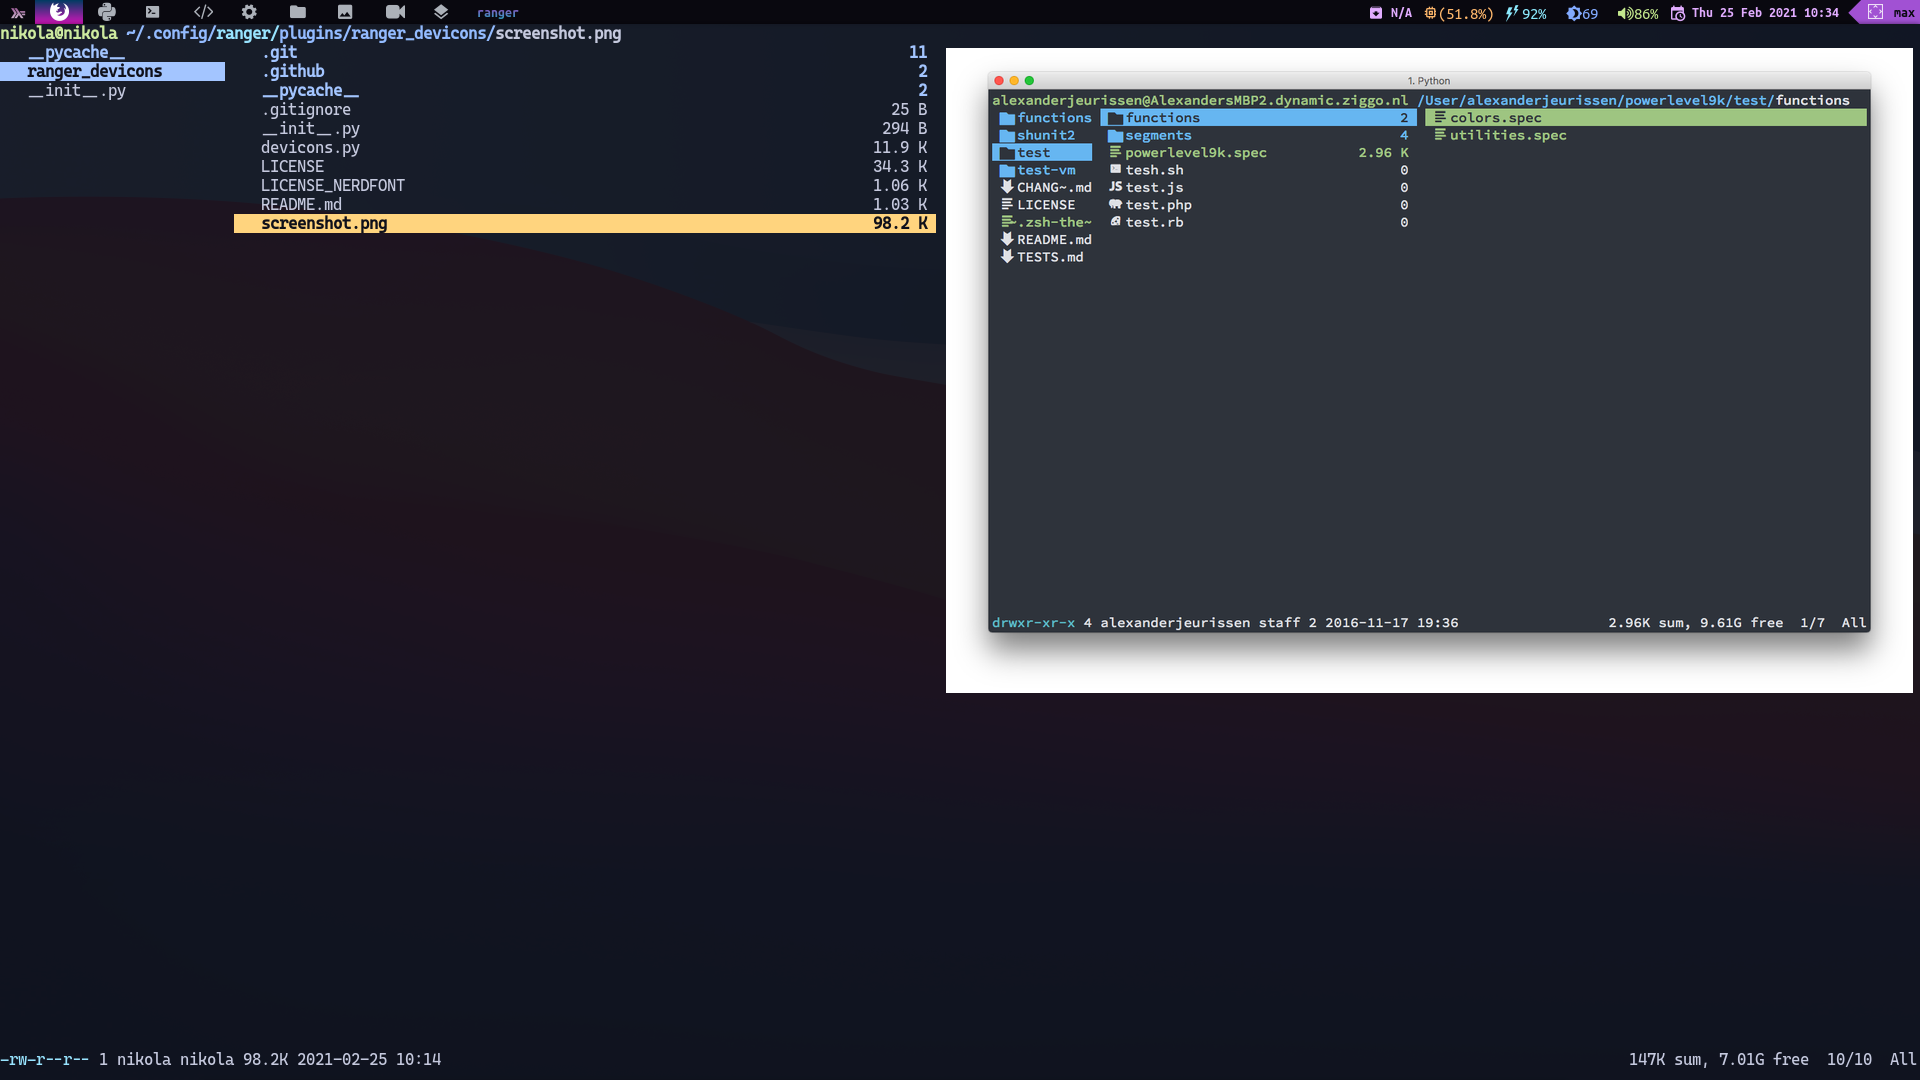
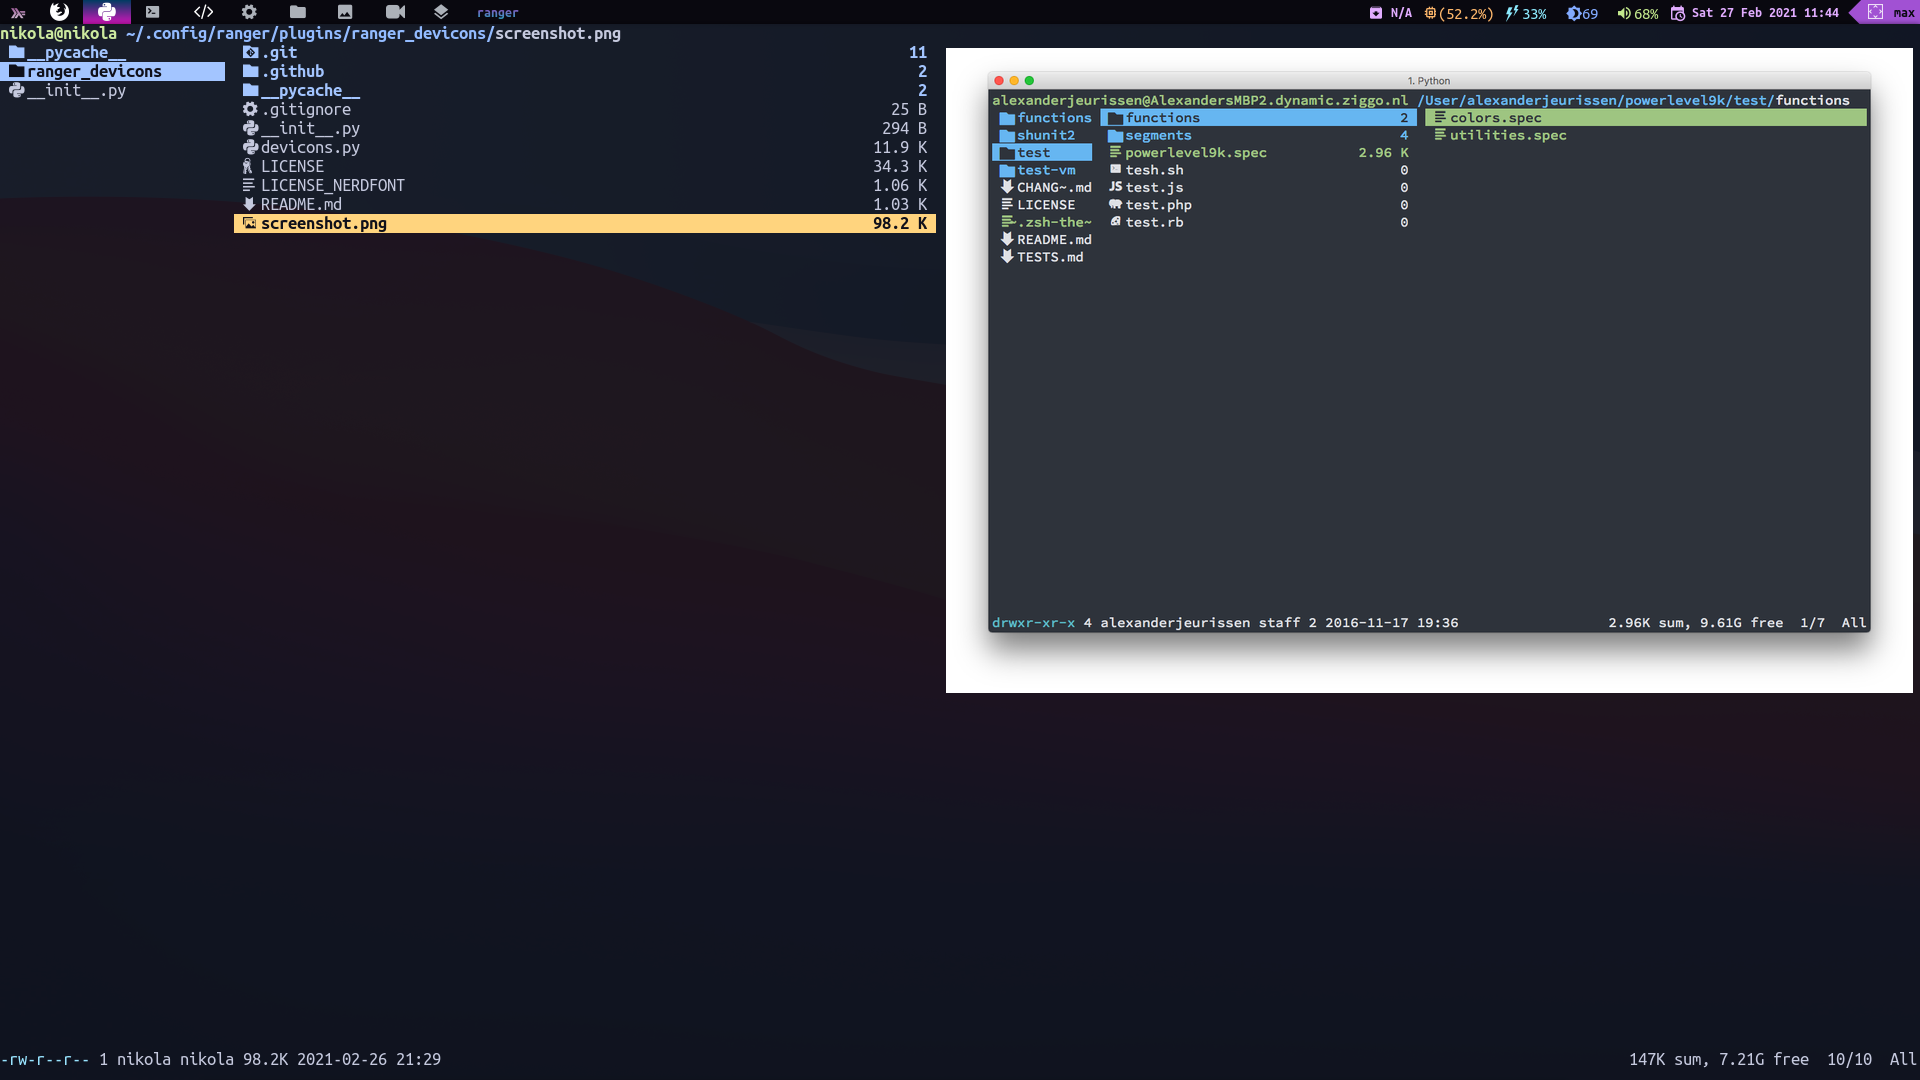
actualizacion de readmes de ranger y nvim, configuracion de .local

diff --git a/.config/qtile/README.es.md b/.config/qtile/README.es.md
@@ -1,0 +1,91 @@
+# Qtile
+
+![Qtile](./qtile.png)
+
+***Idioma***
+- 🇪🇸 Español
+- [🇺🇸 English](https://github.com/NikolaM-Dev/.doftfiles/tree/main/.config/qtile)
+
+## Instalación
+
+Instala Qtile y las dependencias:
+
+```bash
+sudo pacman -S qtile pacman-contrib
+yay -S nerd-fonts-ubuntu-mono
+```
+
+Clona este repositorio y copia mis configuraciones:
+
+```bash
+git clone https://github.com/NikolaM-Dev/.dotfiles.git
+cp -r .dotfiles/.config/qtile ~/.config
+```
+
+Pruébalo con **[Xephyr](https://wiki.archlinux.org/index.php/Xephyr)**:
+
+```bash
+Xephyr -br -ac -noreset -screen 1280x720 :1 &
+DISPLAY=:1 qtile
+```
+
+Si el icono de la red no funciona, abre  **./settings/widgets.py** y busca
+esta línea, debería estar dentro de una lista llamada *primary_widgets*:
+
+```python
+# Cambia el argumento "interface", usa ip address para saber cuál poner
+ widget.Net(**base(bg='color3'), interface='wlp2s0'),
+```
+
+Si en este punto aun sigue el error, debes revisar que este instalada la libreria **psutil** de python
+
+```python
+# para instalar la libreria ejecuta el comando
+pip install psutil
+```
+
+Una vez eso está hecho, puedes iniciar sesión. Pero recuerda que los atajos de
+teclado no funcionarán a no ser que tengas todos los programas que uso yo y las
+mismas configuraciones. Puedes cambiar los atajos de teclado o bien instalar el
+software que uso yo, mira
+[esta sección](https://github.com/antoniosarosi/dotfiles/blob/master/README.es.md#atajos-de-teclado)
+para las instrucciones.
+
+## Estructura
+
+En el archivo **config.py** que es donde la mayoría suele poner toda su
+configuración, yo solo tengo el *autostart* y algunas variables como
+*cursor_warp*.
+
+```python
+@hook.subscribe.startup_once
+def autostart():
+    subprocess.call([path.join(qtile_path, 'autostart.sh')])
+```
+
+Para cambiar lo que se lanza en el *autostart* abre el archivo 
+**./autostart.sh**.
+
+```bash
+#!/bin/sh
+
+# systray battery icon
+cbatticon -u 5 &
+# systray volume
+volumeicon &
+```
+
+Si quieres añadir o quitar atajos de teclado, abre **./settings/keys.py**. Para
+añadir o quitar espacios de trabajos, debes modificar **./settings/groups.py**.
+Finalmente, si quieres añadir nuevos *layouts*, abre **./settings/layouts.py**,
+el resto de archivos no hace falta tocarlos.
+
+## Temas
+
+Para establecer un tema, mira los que hay disponibles en **./themes**, y coloca
+su nombre en un archivo llamado **./config.json**, créalo si no lo tienes,
+aunque de todos modos se creará de forma automática al iniciar Qtile:
+
+```json
+{"theme": "big-sur"}
+```

diff --git a/.config/qtile/README.md b/.config/qtile/README.md
@@ -2,14 +2,17 @@
 
 ![Qtile](./qtile.png)
 
+***Language***
+- [🇪🇸 Español](./README.es.md)
+- 🇺🇸 English
+
 ## Installation
 
 Install Qtile and dependencies:
 
-```sh
+```
 sudo pacman -S qtile pacman-contrib
 yay -S nerd-fonts-ubuntu-mono
-pip install psutil
 ```
 
 Clone this repository and copy my configs:
@@ -27,12 +30,20 @@ DISPLAY=:1 qtile
 ```
 
 If the network widget doesn't work check **./settings/widgets.py** and look for
-this line, you should find it inside a list called _primary_widgets_:
+this line, you should find it inside a list called *primary_widgets*:
 
 ```python
 # Change interface arg, use ip address to find which one you need
  widget.Net(**base(bg='color3'), interface='wlp2s0'),
 ```
+
+If at this point the error still continues, you should check that the **psutil** python library is installed
+
+```python
+# you can install the library executing the command
+pip install psutil
+```
+
 
 Once that's done, you can login. But keep in mind keybindings will not work
 unless you have the same programs that I use and the same configs. You can
@@ -43,8 +54,8 @@ for instructions.
 ## Structure
 
 In **config.py**, which is the file where most people write all their config,
-I only have an _autostart_ function and some other variables like
-_cursor_warp_.
+I only have an *autostart* function and some other variables like
+*cursor_warp*.
 
 ```python
 @hook.subscribe.startup_once
@@ -52,7 +63,7 @@ def autostart():
     subprocess.call([path.join(qtile_path, 'autostart.sh')])
 ```
 
-If you want to change _autostart_ programs, open **./autostart.sh**.
+If you want to change *autostart* programs, open  **./autostart.sh**.
 
 ```bash
 #!/bin/sh
@@ -76,5 +87,4 @@ it doesn't exist. It will be created anyway if you don't do it before running
 this config.
 
 ```json
-{ "theme": "big-sur" }
-```
+{"theme": "big-sur"}

diff --git a/.config/ranger/README.es.md b/.config/ranger/README.es.md
@@ -2,10 +2,10 @@
 
 ![Ranger](./ranger.png)
 
-**_Lenguaje_**
+**_Idioma_**
 
-- [🇪🇸 Español](./README.es.md)
-- 🇺🇸 [English](./README.md)
+- 🇪🇸 Español
+- 🇺🇸 [English](https://github.com/NikolaM-Dev/.doftfiles/tree/main/.config/ranger)
 
 ## Instalacion de Ranger
 
@@ -17,6 +17,7 @@ sudo pacman -S ranger
 
 ```sh
 git clone https://github.com/alexanderjeurissen/ranger_devicons ~/.config/ranger/plugins/ranger_devicons
+echo "default_linemode devicons" >> $HOME/.config/ranger/rc.conf
 ```
 
 ## Instalacion de Ueberzug (solo linux)

diff --git a/.config/ranger/README.md b/.config/ranger/README.md
@@ -2,10 +2,10 @@
 
 ![Ranger](./ranger.png)
 
-**_language_**
+**_Language_**
 
 - [🇪🇸 Español](./README.es.md)
-- 🇺🇸 [English](./README.md)
+- 🇺🇸 English
 
 ## Install Ranger
 
@@ -17,6 +17,7 @@ sudo pacman -S ranger
 
 ```sh
 git clone https://github.com/alexanderjeurissen/ranger_devicons ~/.config/ranger/plugins/ranger_devicons
+echo "default_linemode devicons" >> $HOME/.config/ranger/rc.conf
 ```
 
 ## Install Ueberzug (only linux)

diff --git a/.config/nvim/README.md b/.config/nvim/README.md
@@ -1,3 +1,5 @@
+# Neovim
+
 ![Neovim](./neovim.png)
 
 **_Language_**

diff --git a/.config/nvim/README.es.md b/.config/nvim/README.es.md
@@ -1,3 +1,5 @@
+# Neovim
+
 ![Neovim](./neovim.png)
 
 **_Idioma_**
